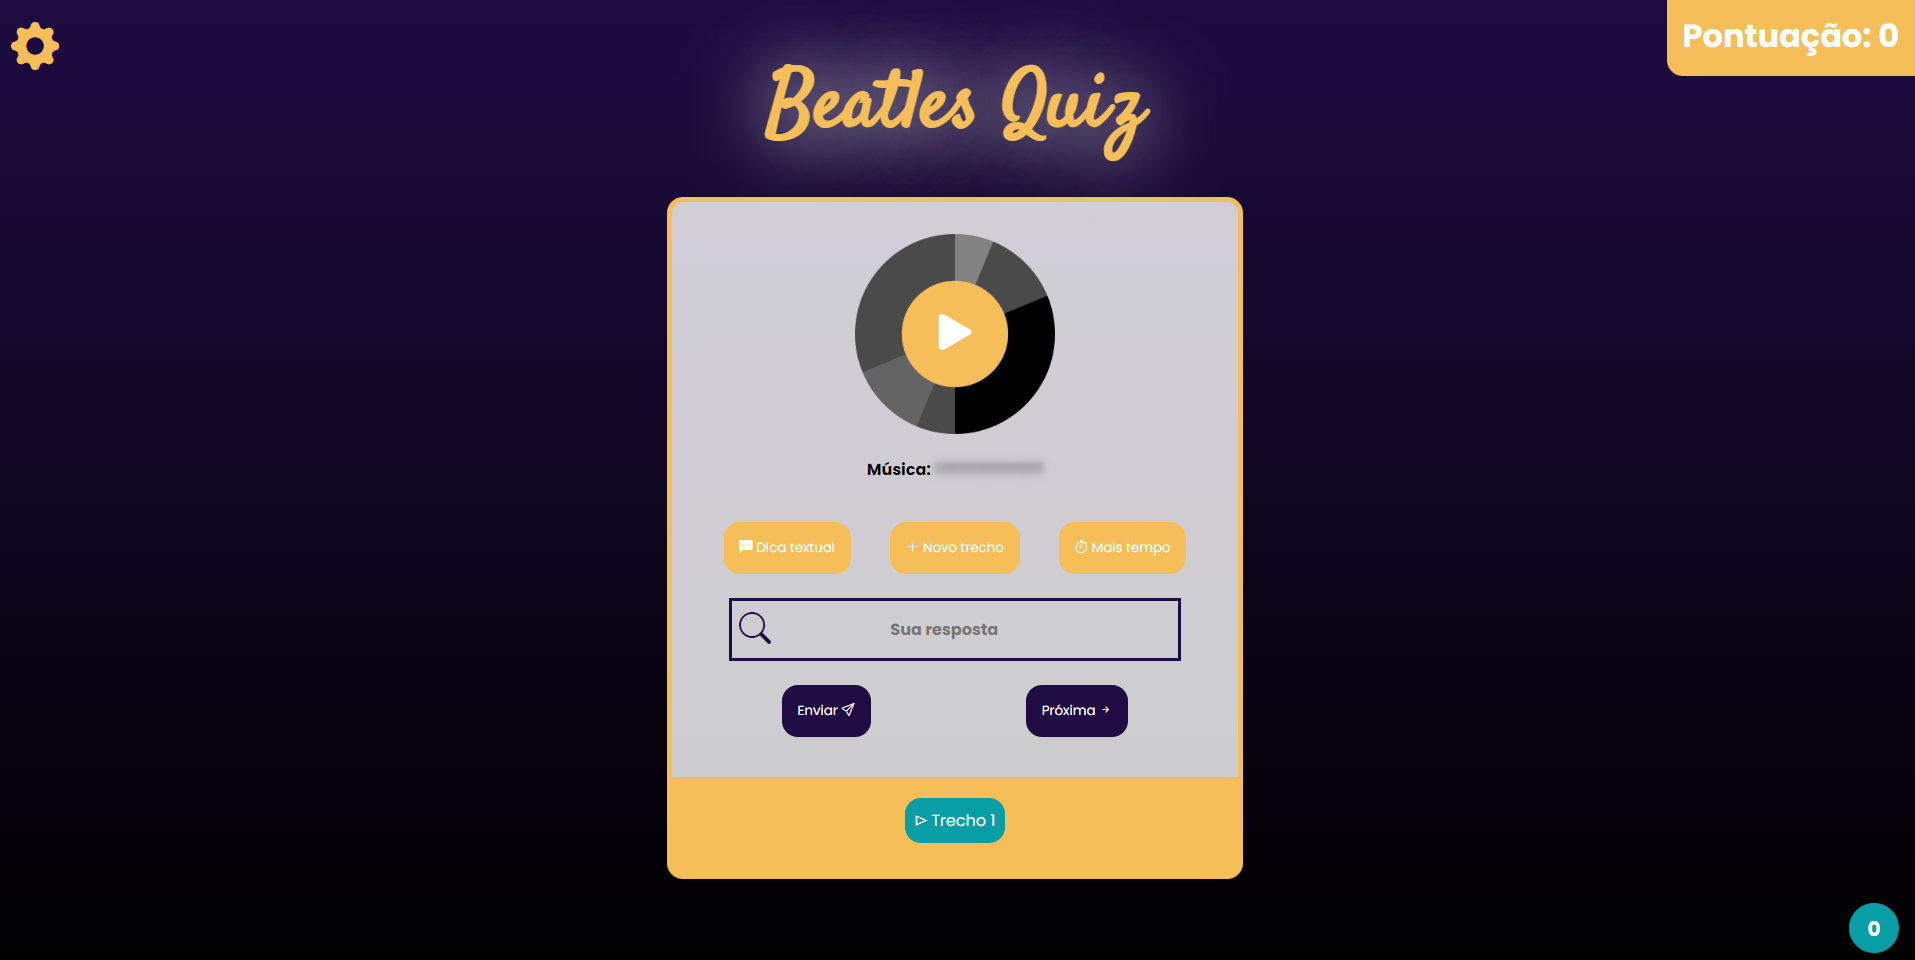
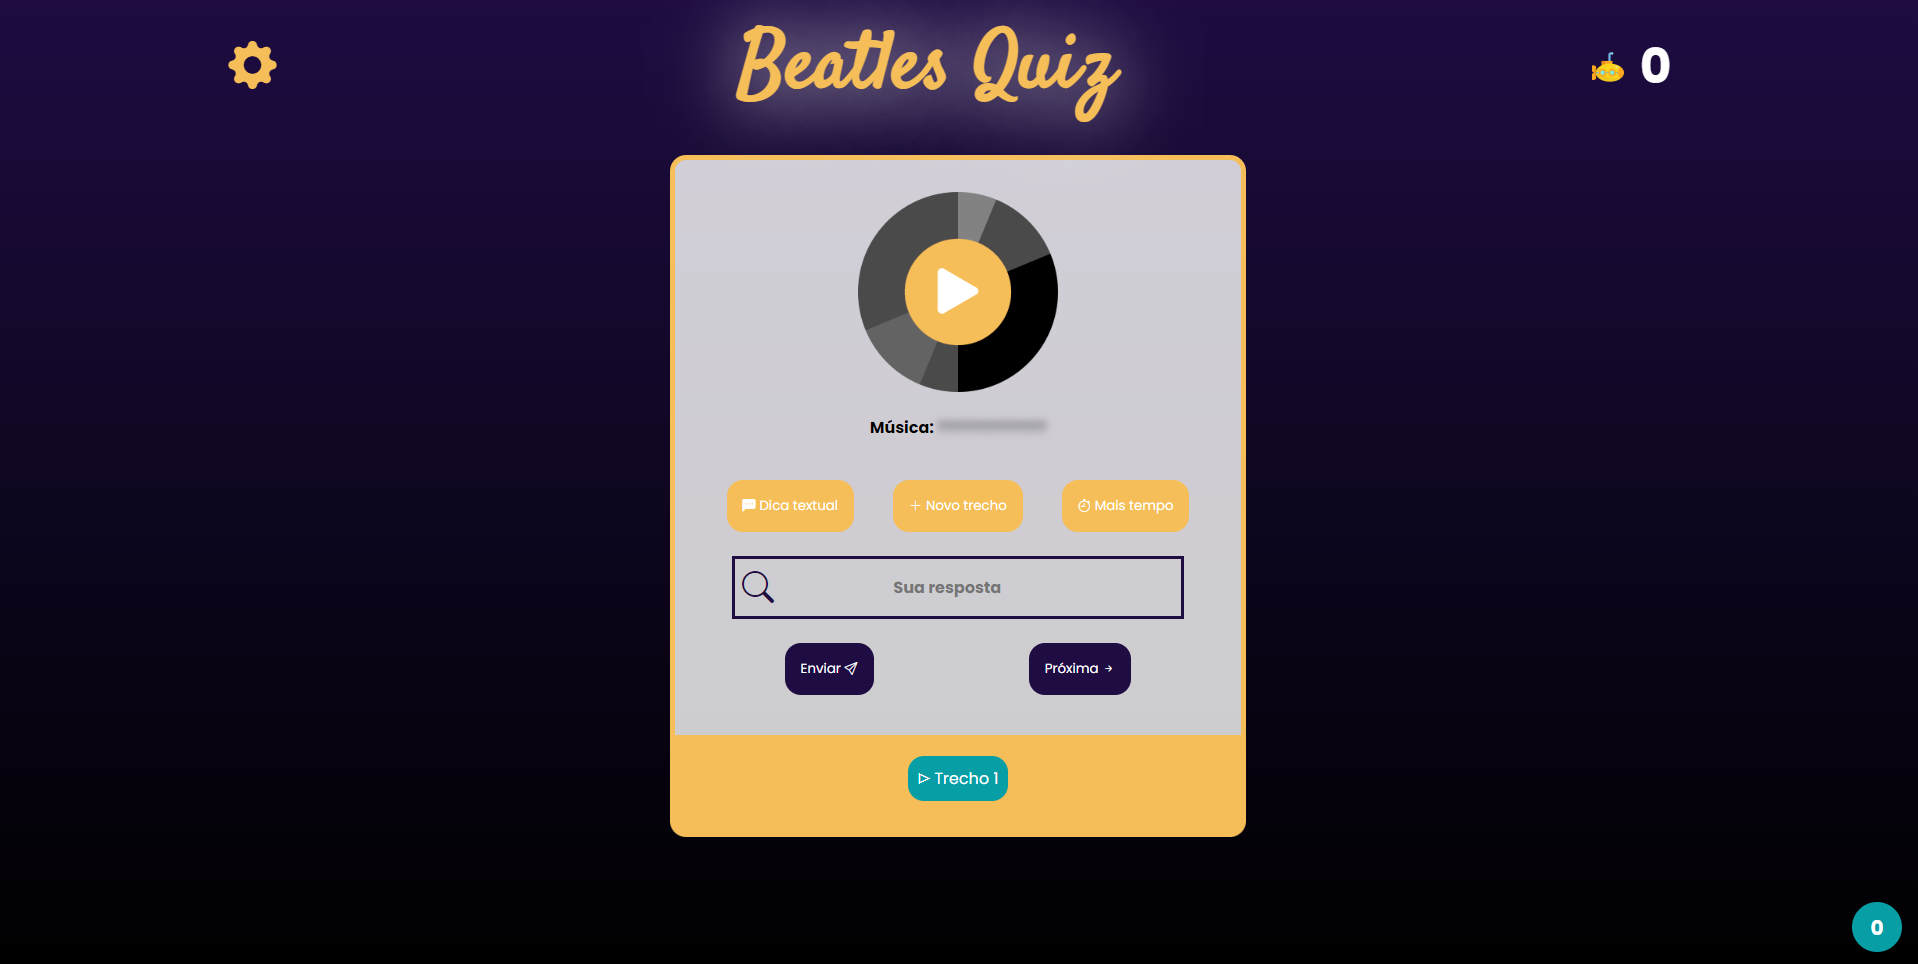
alinhamento dos itens superiores, ícone para pontuação e correção de bug no limite de toques

diff --git a/styles.css b/styles.css
@@ -49,6 +49,7 @@ body {
 	height: 100%;
 	overflow: hidden;
     margin: 0;
+    padding-top: 10rem;
     background-repeat: no-repeat;
     background-attachment: fixed;
 }
@@ -97,7 +98,7 @@ h1 {
 }
 
 .pontuacaoFlutuante {
-	background-color: var(--segunda-cor);
+	background-color: transparent;
 	color: #fff;
 	padding: 1rem;
 	position: fixed;
@@ -107,7 +108,10 @@ h1 {
 	font-weight: bolder;
 	line-height: 150%;
 	text-align: center;
-	font-size: 2rem;
+	font-size: 3rem;
+	display: flex;
+	justify-content: center;
+	align-items: center;
 }
 
 #toast {
@@ -225,7 +229,7 @@ input:focus {
 
 #btnPlay {
 	background: var(--segunda-cor);
-	font-size: 4rem;
+	font-size: 5rem;
 	width: 5rem;
 	height: 5rem;
 	border-radius: 50%;
@@ -435,6 +439,26 @@ label[for="config_limiteDicas"] {
 	display: none;
 }
 
+#moedinha {
+	height: 2rem;
+	width: 2rem;
+	margin-right: 1rem;
+}
+
+h1, .pontuacaoFlutuante, #abrirConfig {
+	position: static;
+}
+
+#cabecalho {
+	position: fixed;
+	top: 0;
+	left: 0;
+	width: 100%;
+	display: flex;
+	justify-content: space-around;
+	align-items: center;
+}
+
 @keyframes moveBanner {
 	0% {
 		background-position: 50% 0%;
@@ -468,15 +492,6 @@ label[for="config_limiteDicas"] {
 	#quiz {
 		background-color: transparent;
 		border: none;
-	}
-
-	h1 {
-		font-size: 2.5rem;
-		position: absolute;
-		width: 100%;
-		top: .5rem;
-		left: 50%;
-		transform: translateX(-50%);
 	}
 
 	body {
@@ -531,7 +546,7 @@ label[for="config_limiteDicas"] {
 	}
 
 	#vinil img {
-		width: 325px;
+		width: 300px;
 	}
 
 	#escolhaTrechosGerados {
@@ -575,26 +590,35 @@ label[for="config_limiteDicas"] {
 		display: block;
 	}
 
+	h1 {
+		position: static;
+		font-size: 2.5rem;
+		width: 50%;
+	}
+
 	.pontuacaoFlutuante {
-		background-color: var(--segunda-cor);
-		color: #fff;
-		padding: 5px;
-		font-size: 1rem;
+		position: static;
+		padding: 10px;
+		font-size: 2.5rem;
+		height: 2rem;
+		border-radius: 10px;
 	}
 
 	#abrirConfig {
+		position: static;
 		color: var(--segunda-cor);
-		font-weight: bolder;
-		font-size: 1rem;
-		position: absolute;
-		top: 1rem;
-		left: 1rem;
+		font-size: 2.5rem;
 		cursor: pointer;
 		z-index: 3000;
+		margin-right: 2rem;
 	}
 
 	.revelacao #dicas {
 		list-style: none;
+	}
+
+	#divRespostaUsuario i {
+		display: none;
 	}
 
 	#toast {
@@ -609,6 +633,15 @@ label[for="config_limiteDicas"] {
 }
 
 @media screen and (max-width: 500px) {
+	h1 {
+		font-size: 2rem;
+	}
+	#vinil {
+		top: 52%;
+	}
+	#vinil img {
+		width: 250px;
+	}
 	#listaTrechos ul li {
 		font-size: .75rem;
 	}

diff --git a/script.js b/script.js
@@ -122,13 +122,18 @@ const trataTrechosGerados = () => {
        let todosTrechosGerados = [... document.querySelectorAll('.trecho-gerado')];
        todosTrechosGerados.forEach(trecho => {
               trecho.addEventListener('click', () => {
-                     console.log(trecho.getAttribute('tempo'));
-                     tempoAleatorio = parseInt(trecho.getAttribute('tempo'));
-                     audio.currentTime = parseInt(trecho.getAttribute('tempo'));
-                     audio.play();
-                     document.querySelector('#vinil img').style.animation = 'rotate 5s linear infinite';
-                     btnPlay.querySelector('i').classList.remove('bi-play-fill');
-                     btnPlay.querySelector('i').classList.add('bi-pause-fill');
+              	       if (toquesUsados < limiteToques) {
+							toquesUsados++;
+							console.log(trecho.getAttribute('tempo'));
+							tempoAleatorio = parseInt(trecho.getAttribute('tempo'));
+							audio.currentTime = parseInt(trecho.getAttribute('tempo'));
+							audio.play();
+							document.querySelector('#vinil img').style.animation = 'rotate 5s linear infinite';
+							btnPlay.querySelector('i').classList.remove('bi-play-fill');
+							btnPlay.querySelector('i').classList.add('bi-pause-fill');
+              	       } else {
+              	       		exibeToast('Você atingiu seu limite de toques.', 'brown');
+              	       }
               });
        });
 }

diff --git a/index.html b/index.html
@@ -40,9 +40,6 @@
 
 <div id="toast"></div>
 
-<div class="pontuacaoFlutuante">Pontuação: <span id="pontuacaoJogador"></span></div>
-<i id="abrirConfig" class="bi bi-gear-fill"></i>
-
 <div class="bg-modal">
 	<div id="configuracoes" class="modal">
 		<i class="bi bi-x" id="fecharModal"></i>
@@ -84,7 +81,12 @@
 	</div>
 </div>
 
-<h1>Beatles Quiz</h1>
+<div id="cabecalho">
+	<i id="abrirConfig" class="bi bi-gear-fill"></i>
+	<h1>Beatles Quiz</h1>
+	<div class="pontuacaoFlutuante"><img src="moedinha.png" id="moedinha"> <span id="pontuacaoJogador"></span></div>
+</div>
+
 <div id="quiz">
 	<div id="vinil">
 		<img src="vinil.png" tabindex="-1">
